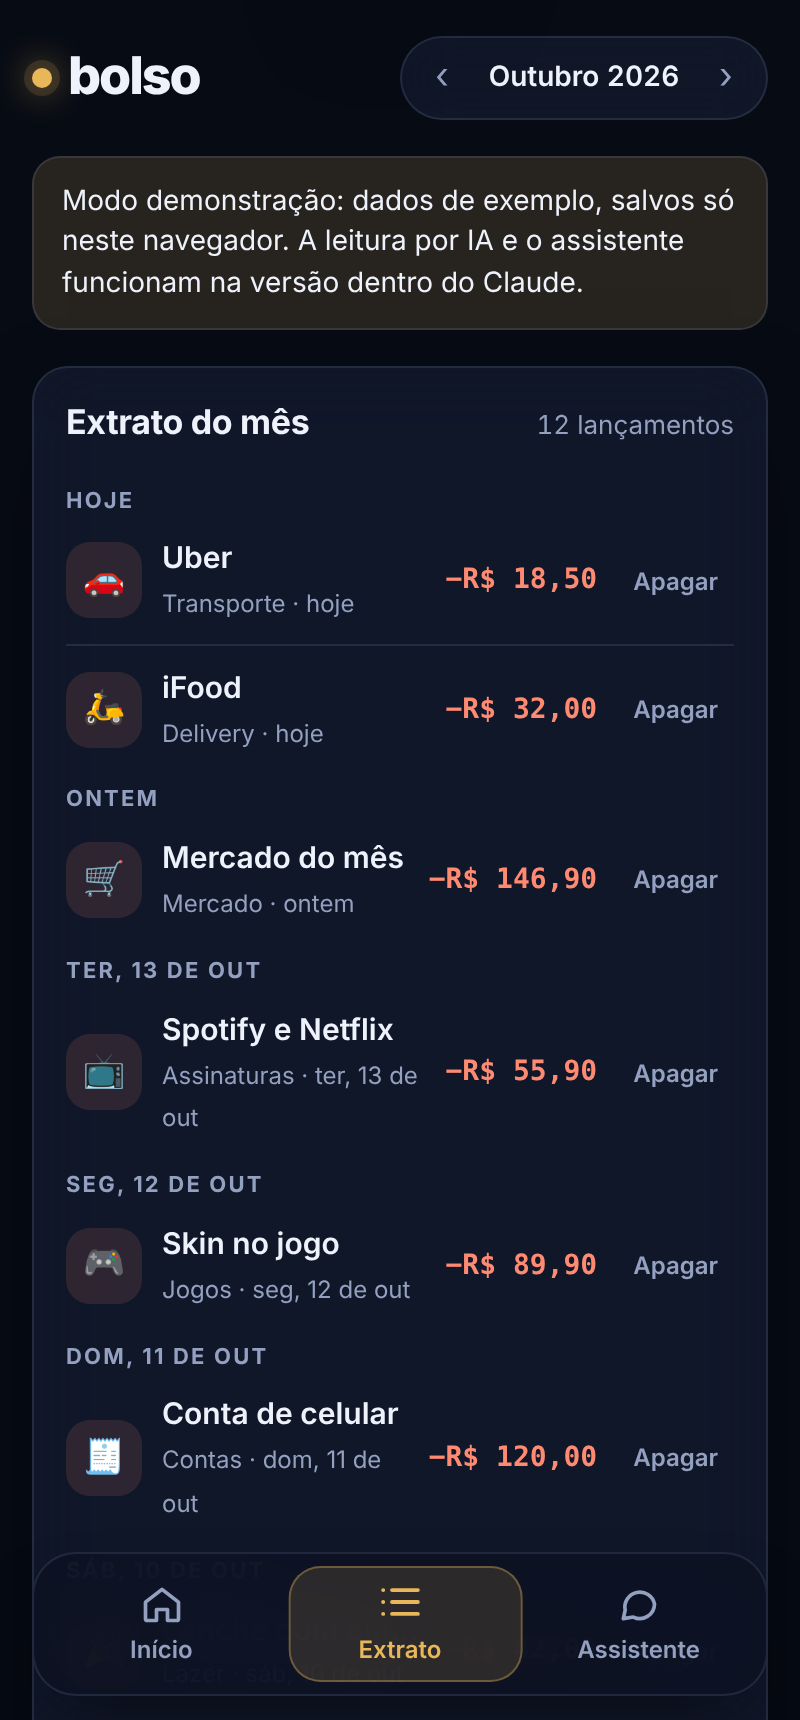
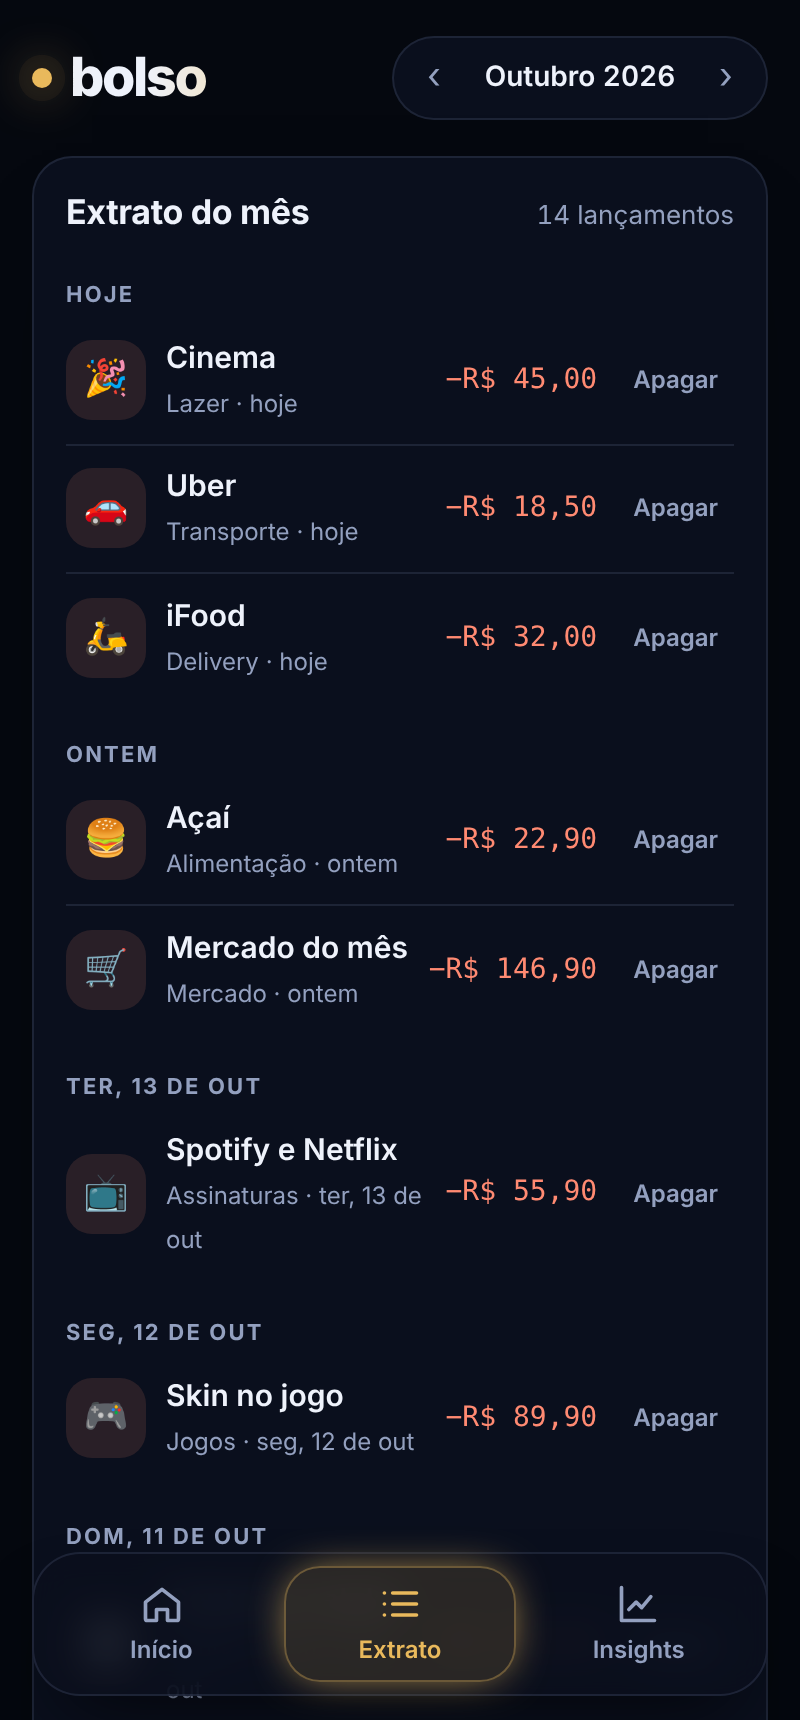
Prints novos no README e fundo mais luminoso
Claude-Session: https://claude.ai/code/session_01EE5U1P91DKZHVCWBDmua36

diff --git a/components/ShaderBackground.tsx b/components/ShaderBackground.tsx
@@ -34,7 +34,7 @@ void main(){
   float a = 0.5 + 0.5 * sin(q.x + q.y);
   float b = 0.5 + 0.5 * cos(q.x * 1.3 - q.y * 0.8);
 
-  vec3 base  = vec3(0.022, 0.035, 0.068);
+  vec3 base  = vec3(0.03, 0.045, 0.09);
   vec3 emer  = vec3(0.05, 0.42, 0.33);
   vec3 indi  = vec3(0.16, 0.20, 0.55);
   vec3 gold  = vec3(0.62, 0.42, 0.10);
@@ -60,7 +60,7 @@ void main(){
   col += vec3(1.0, 0.88, 0.62) * s * 0.55;
 
   // vignette + grain
-  col *= 1.0 - 0.45 * pow(length(uv - vec2(0.5, 0.45)), 1.8);
+  col *= 1.0 - 0.3 * pow(length(uv - vec2(0.5, 0.45)), 1.8);
   col += (hash(gl_FragCoord.xy + fract(t)) - 0.5) * 0.02;
 
   gl_FragColor = vec4(col, 1.0);

diff --git a/app/globals.css b/app/globals.css
@@ -3,7 +3,7 @@
 :root {
   color-scheme: dark;
   --bg: #05080f;
-  --panel: rgba(14, 20, 36, 0.66);
+  --panel: rgba(14, 20, 36, 0.6);
   --panel-2: rgba(28, 38, 64, 0.6);
   --line: rgba(160, 180, 230, 0.13);
   --fg: #eef2fb;

diff --git a/README.md b/README.md
@@ -13,9 +13,9 @@
 </div>
 
 <p align="center">
-  <img src="docs/inicio-dark.png" width="240" alt="Tela inicial no tema escuro">
-  <img src="docs/categorias.png" width="240" alt="Limite do mês e gastos por categoria">
+  <img src="docs/inicio.png" width="240" alt="Tela inicial com o cartão do saldo">
   <img src="docs/extrato.png" width="240" alt="Extrato do mês">
+  <img src="docs/insights.png" width="240" alt="Insights com gráfico de gastos por dia">
 </p>
 
 ## Funcionalidades
